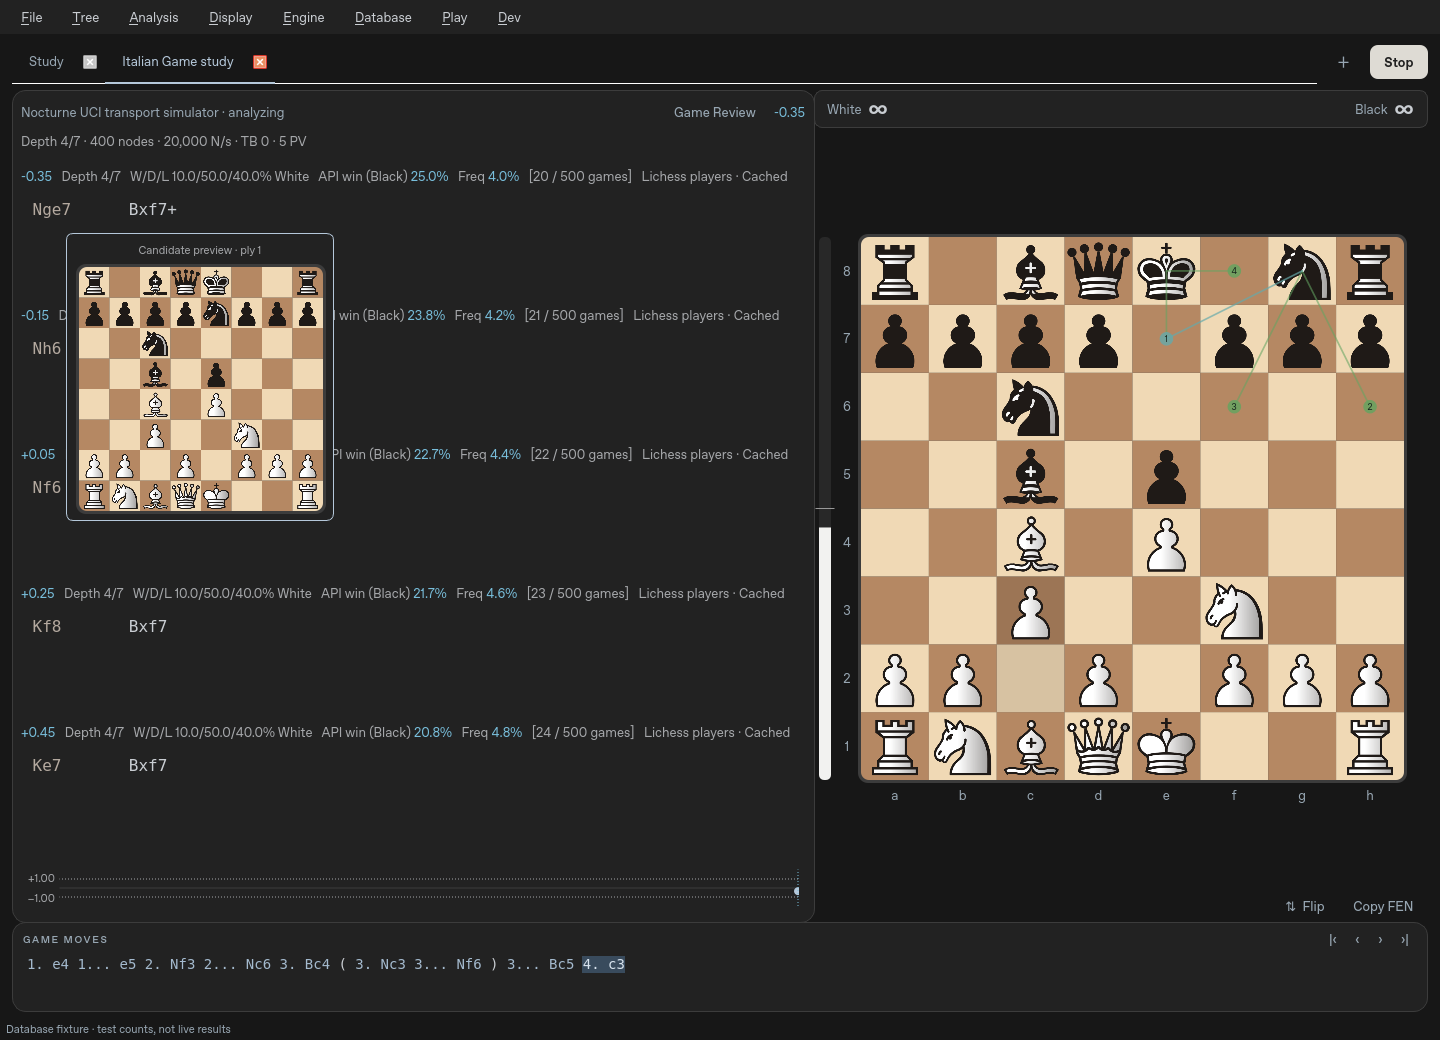
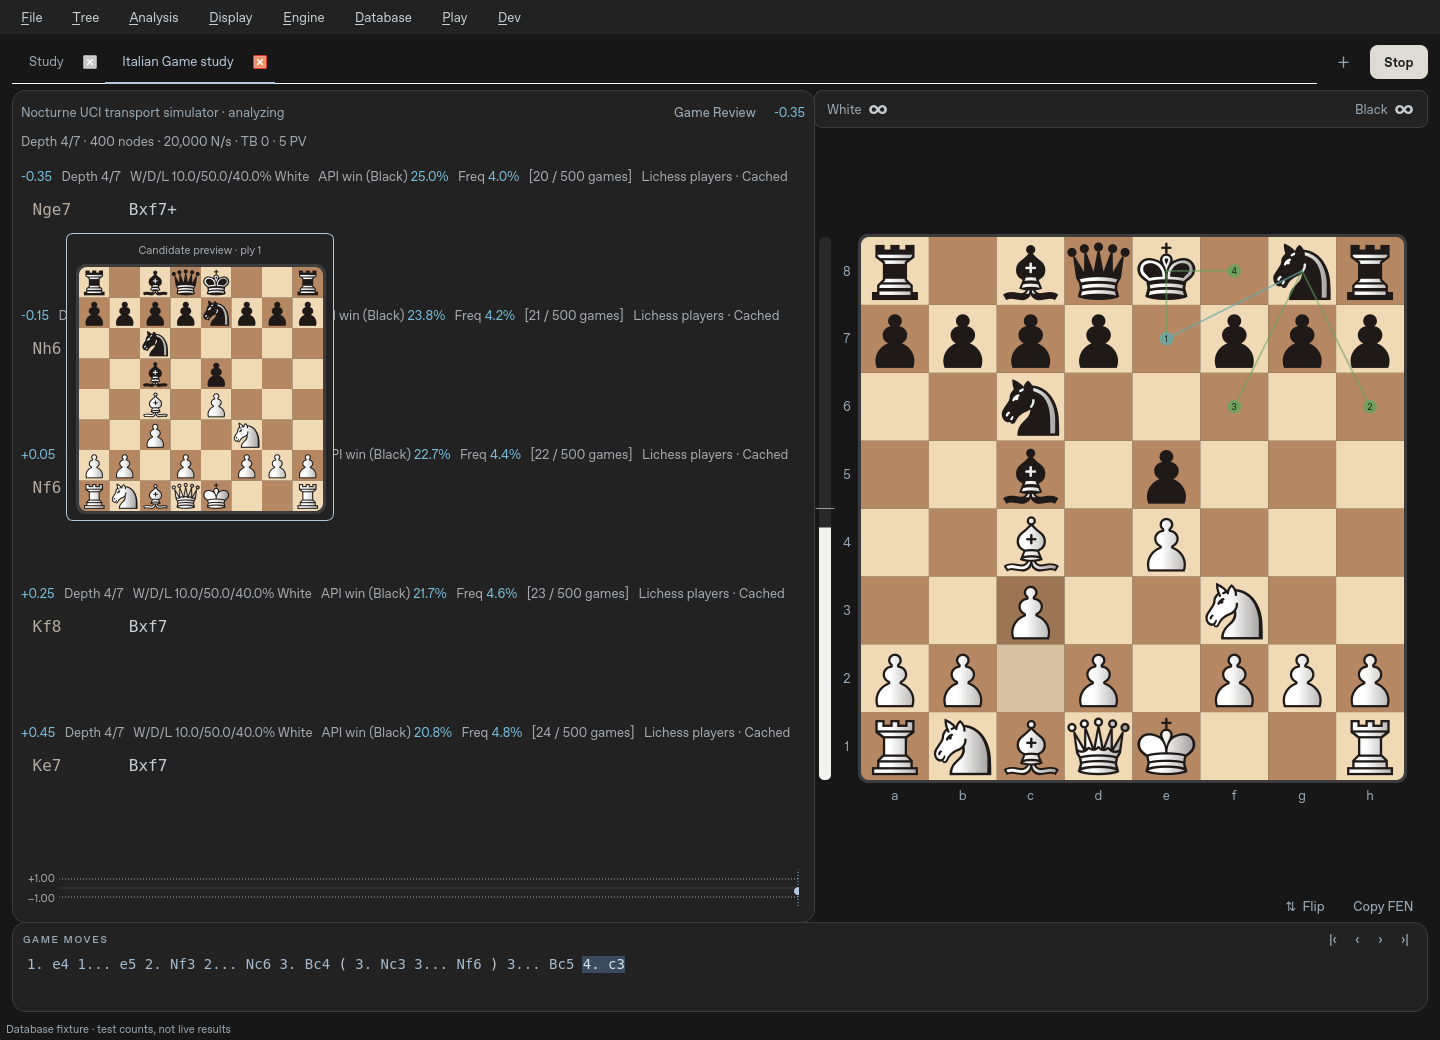
0.5.7.18: Render crisp shaded Nibbler vectors and validate the cumulative Windows build

diff --git a/tests/test_gui.py b/tests/test_gui.py
@@ -17,7 +17,7 @@ from nocturne.core.notation import san
 os.environ.setdefault("QT_QPA_PLATFORM", "offscreen")
 try:
     from PySide6.QtCore import QEvent, QPoint, QPointF, QTimer, Qt
-    from PySide6.QtGui import QMouseEvent, QTextDocument, QWheelEvent, QColor, QPixmap, QFontMetricsF
+    from PySide6.QtGui import QMouseEvent, QTextDocument, QWheelEvent, QColor, QFontMetricsF
     from PySide6.QtTest import QTest
     from PySide6.QtWidgets import QApplication, QMenu, QScrollArea, QWidget
     from nocturne.gui.window import MainWindow
@@ -197,20 +197,19 @@ class GuiTests(unittest.TestCase):
         self.assertEqual(self.window.game.time_control, TimeControl(300, 2))
         self.assertEqual(self.window.game.clock_values(), {1: 280, -1: 290})
 
-    def test_nibbler_default_has_all_twelve_original_images_and_live_style_switching(self):
+    def test_nibbler_default_has_twelve_matching_vectors_and_live_style_switching(self):
         from nocturne.gui.dialogs import SettingsDialog
         board = self.window.board_view
         self.assertEqual(self.window.config["piece_set"], "Nibbler")
         self.assertEqual(board.piece_set, "Nibbler")
         self.assertEqual(len(board._renderers), 12)
         for piece, image in board._renderers.items():
-            self.assertIsInstance(image, QPixmap)
-            self.assertFalse(image.isNull())
-            self.assertEqual((image.width(), image.height()), (240, 240))
-            self.assertTrue(image.hasAlphaChannel())
+            self.assertTrue(image.isValid())
+            self.assertFalse(image.viewBoxF().isEmpty())
             self.assertTrue(board.piece_path(piece).is_file())
-        self.assertEqual(board.piece_path(2).name, "N.png")
-        self.assertEqual(board.piece_path(-2).name, "_N.png")
+            self.assertNotIn("<image", board.piece_path(piece).read_text())
+        self.assertEqual(board.piece_path(2).name, "wN.svg")
+        self.assertEqual(board.piece_path(-2).name, "bN.svg")
         dialog = SettingsDialog(self.window.config, self.window)
         try:
             self.assertEqual(dialog.pieces.itemText(0), "Nibbler")
@@ -219,10 +218,30 @@ class GuiTests(unittest.TestCase):
             self.assertEqual(dialog.preview.piece_set, "Cburnett")
             dialog.pieces.setCurrentText("Nibbler")
             self.assertEqual(dialog.preview.piece_set, "Nibbler")
-            self.assertFalse(dialog.preview._renderers[2].isNull())
+            self.assertTrue(dialog.preview._renderers[2].isValid())
         finally:
             dialog.close()
             dialog.deleteLater()
+
+    def test_nibbler_vectors_paint_with_alpha_at_one_two_and_three_times_dpi(self):
+        from PySide6.QtCore import QRectF
+        from PySide6.QtGui import QImage, QPainter
+        board = self.window.board_view
+        for piece in board._renderers:
+            for scale in (1, 2, 3):
+                image = QImage(256 * scale, 256 * scale, QImage.Format.Format_ARGB32)
+                image.setDevicePixelRatio(scale)
+                image.fill(Qt.GlobalColor.transparent)
+                painter = QPainter(image)
+                painter.setRenderHint(QPainter.RenderHint.Antialiasing)
+                board._piece(painter, piece, QRectF(0, 0, 256, 256))
+                painter.end()
+                self.assertEqual(image.pixelColor(0, 0).alpha(), 0)
+                self.assertGreater(image.pixelColor(128 * scale, 190 * scale).alpha(), 0)
+                # Curved/slanted vector edges must retain intermediate alpha at
+                # native device resolution, rather than nearest-neighbor pixels.
+                edge = [image.pixelColor(x, 128 * scale).alpha() for x in range(image.width())]
+                self.assertTrue(any(0 < alpha < 255 for alpha in edge), (piece, scale))
 
     def test_studio_appearance_preview_cancel_and_save(self):
         from nocturne.gui.dialogs import SettingsDialog

diff --git a/src/nocturne/gui/board.py b/src/nocturne/gui/board.py
@@ -5,7 +5,7 @@ from __future__ import annotations
 import math
 
 from PySide6.QtCore import QEasingCurve, QPointF, QRectF, QSize, Qt, QVariantAnimation, Signal
-from PySide6.QtGui import QColor, QFont, QIcon, QMouseEvent, QPainter, QPainterPath, QPen, QPolygonF, QPixmap
+from PySide6.QtGui import QColor, QFont, QIcon, QMouseEvent, QPainter, QPainterPath, QPen, QPolygonF
 from PySide6.QtSvg import QSvgRenderer
 from PySide6.QtWidgets import QMenu, QWidget
 
@@ -68,14 +68,13 @@ class BoardWidget(QWidget):
 
     def piece_directory(self):
         directory = ASSETS / "pieces"
-        return directory / "nibbler" if self.piece_set == "Nibbler" else (
+        return directory / "nibbler" / "source" if self.piece_set == "Nibbler" else (
             directory / "original" if self.piece_set == "Original" else directory)
 
     def piece_path(self, piece):
         kind = PIECE_CHARS[abs(piece)]
-        if self.piece_set == "Nibbler":
-            return self.piece_directory() / (("_" if piece < 0 else "") + kind.upper() + ".png")
-        return self.piece_directory() / (("w" if piece > 0 else "b") + kind.lower() + ".svg")
+        kind = kind.upper() if self.piece_set == "Nibbler" else kind.lower()
+        return self.piece_directory() / (("w" if piece > 0 else "b") + kind + ".svg")
 
     def set_piece_set(self, name):
         name = name if name in ("Nibbler", "Cburnett", "Original") else "Nibbler"
@@ -90,7 +89,7 @@ class BoardWidget(QWidget):
         for color in (1, -1):
             for kind in range(1, 7):
                 path = str(self.piece_path(color * kind))
-                renderers[color * kind] = QPixmap(path) if name == "Nibbler" else QSvgRenderer(path, self)
+                renderers[color * kind] = QSvgRenderer(path, self)
         self._renderer_sets[name] = self._renderers = renderers
         self.update()
 
@@ -212,13 +211,10 @@ class BoardWidget(QWidget):
         self.update()
 
     def _piece(self, painter: QPainter, piece: int, rect: QRectF):
-        image = self._renderers[piece]
-        if isinstance(image, QPixmap):
-            # The upstream PNG already contains the intended transparent padding.
-            painter.drawPixmap(rect, image, QRectF(image.rect()))
-        else:
-            inset = rect.width() * 0.045
-            image.render(painter, rect.adjusted(inset, inset, -inset, -inset))
+        # The shaded Merida vectors already include the Nibbler artwork's
+        # padding. Render at the painter's device resolution, including HiDPI.
+        inset = 0 if self.piece_set == "Nibbler" else rect.width() * 0.045
+        self._renderers[piece].render(painter, rect.adjusted(inset, inset, -inset, -inset))
 
     def _arrow(self, painter: QPainter, src: int, dst: int, color: QColor, unit: float, *, subtle=False):
         if src == dst:

diff --git a/src/nocturne/__main__.py b/src/nocturne/__main__.py
@@ -38,6 +38,7 @@ def main():
             "moves": [{"uci": move.uci(), "white": 1, "draws": 0, "black": 0}],
         })
         window.config["explorer_enabled"] = True
+        window.config["explorer_statistics"] = True
         if "--smoke-engine" in sys.argv:
             index = sys.argv.index("--smoke-engine")
             executable = sys.argv[index + 1]
@@ -54,6 +55,7 @@ def main():
             ]
         window._apply_settings()
         window._refresh()
+        window._set_explorer_option("explorer_enabled", False)
         pulse = QTimer()
         pulse.setInterval(25)
         review_started = False
@@ -83,6 +85,18 @@ def main():
                     and (not review_started or reviewed["reviewed"] == reviewed["total"] == 2
                          and reviewed["accuracy"] is not None)
                 )
+                # Exercise collected vector assets and the cursor-board path
+                # in the frozen executable, not just from the source checkout.
+                valid = valid and len(window.board_view._renderers) == 12 and all(
+                    renderer.isValid() for renderer in window.board_view._renderers.values())
+                actual_fen = window.game.board.fen()
+                window._set_cursor_preview(True)
+                window._preview_history(1)
+                valid = (valid and window.hover_preview.isVisible()
+                         and window.board_view.display_board.fen() == actual_fen
+                         and window.hover_preview.board.display_board.fen() == window.game.position_at_node(1).fen())
+                window._end_preview("history")
+                valid = valid and not window.hover_preview.isVisible()
                 pulse.stop()
                 window.close()
                 app.exit(0 if valid else 2)

diff --git a/src/nocturne/settings.py b/src/nocturne/settings.py
@@ -83,10 +83,11 @@ def normalize(data) -> dict:
         result["piece_set"] = "Nibbler"
     if data.get("candidate_marker_version") != 1:
         result["candidate_style"] = "lines"
-    # The old switch controlled both lookup and display. Preserve lookup opt-in
-    # on upgrade, then store the two choices independently.
+    # A saved source from the older UI remains selected even if its panel was
+    # hidden. New installs stay offline; the new explicit opt-out is respected.
     if "explorer_statistics" not in data:
-        result["explorer_statistics"] = data.get("explorer_enabled") is True
+        result["explorer_statistics"] = (data.get("explorer_enabled") is True
+                                         or data.get("explorer_source") in choices["explorer_source"])
     for key in (
         "light",
         "coordinates",

diff --git a/tests/test_settings.py b/tests/test_settings.py
@@ -53,6 +53,7 @@ class SettingsTests(unittest.TestCase):
 
     def test_database_statistics_and_explorer_visibility_are_independent(self):
         self.assertFalse(normalize({})["explorer_statistics"])
+        self.assertTrue(normalize({"explorer_source": "masters", "explorer_enabled": False})["explorer_statistics"])
         upgraded = normalize({"explorer_enabled": True})
         self.assertTrue(upgraded["explorer_statistics"])
         upgraded["explorer_enabled"] = False

diff --git a/src/nocturne/__init__.py b/src/nocturne/__init__.py
@@ -1,3 +1,3 @@
 """Nocturne: native, offline chess analysis with user-supplied UCI engines."""
 
-__version__ = "0.5.7.17"
+__version__ = "0.5.7.18"

diff --git a/PROGRESS.md b/PROGRESS.md
@@ -2364,3 +2364,42 @@ check; cumulative native tests/build still pending. The mini board is an experim
 and the prior main-board hover remains the default. Compared all twelve Nibbler
 PNGs against the included shaded Merida vectors using Qt rendering; same style.
 Switch to those vectors next to remove the fixed bitmap resolution ceiling.
+Follow-up cached GUI checks: five passed (1.904 s), including explicit close-preview
+dismissal. Ruff and the labelled capture regeneration passed.
+
+## 2026-10-18 — 0.5.7.18: native-resolution shaded Nibbler pieces
+
+**Changed:** `gui/board.py` now renders the matching shaded Merida SVGs directly
+at device resolution, retaining the Nibbler default, silhouettes, gradients and
+padding. Board, dragging/animation, preview dialogs, promotion icons and cursor
+boards share that path. All original PNGs remain byte-for-byte archival assets.
+Updated artwork notices, rendering tests, screenshots, build/version metadata
+and documentation. Corrected an older ambiguous Cburnett-only notice.
+
+**Integration fixes:** upgrades preserve saved source selections even when the
+old explorer panel was hidden; the new explicit lookup opt-out is respected and
+fresh installations stay offline. The source/frozen launch fixture now enables
+the independent statistics flag. It additionally validates collected SVGs and
+the cursor board without changing the real board.
+
+**Executed:** focused `test_gui.py -k nibbler -v`: three passed (2.683 s), including
+all twelve vectors with transparent margins/antialiased edges at 1×, 2× and 3×.
+Full `QT_QPA_PLATFORM=offscreen .venv/bin/python -m unittest discover -s tests -v`:
+**184 run, 173 passed / 11 skipped**, 157.584 s; no failures. Six loopback HTTP
+cases skip because this execution sandbox denies sockets; Windows runs them.
+Following the migration/fixture integration updates, settings suite: seven passed;
+`.venv/bin/ruff check src tests scripts`: passed. Both individually executed
+`python -m nocturne --smoke-test` and the same command with `--smoke-engine
+/workspace/.venv/bin/python /workspace/tests/fixtures/uci_simulator.py`: exit 0.
+The latter uses a protocol fixture, not a real playing-strength measurement.
+
+`pip wheel --no-deps --no-build-isolation --wheel-dir /tmp/nocturne-wheel .`
+completed. ZIP integrity and contents verified: twelve SVGs, twelve original
+PNGs and the new hover module. All twelve PNG Git-blob checksums match the pinned
+Nibbler reference notice. Real Qt dark/light/hover captures were generated and
+visually inspected; fixture counts and simulated UCI moves are explicitly labelled.
+
+**Next/limits:** publish this cumulative build to native Windows CI, inspect
+both full runs and frozen launch gates, then provide the actual Windows download.
+User-machine DPI/multi-monitor interaction and unsigned Windows trust remain
+manual checks. No new launch scripts or security-policy bypasses were introduced.

diff --git a/README.md b/README.md
@@ -1,4 +1,4 @@
-# Nocturne Analysis · 0.5.7.17
+# Nocturne Analysis · 0.5.7.18
 
 A native, offline Windows chess analysis GUI inspired by Nibbler. You supply
 Stockfish or another UCI executable. **The desktop app has no built-in engine.**
@@ -6,10 +6,18 @@ Stockfish or another UCI executable. **The desktop app has no built-in engine.**
 The 0.5 direction replaces the earlier custom-engine product. Historical engine
 source/tests remain for reproducibility; they are excluded from the desktop bundle.
 
-![Real Qt application, using explicitly labelled simulated UCI test data](docs/compact-studio-dark.png)
+![Real Qt application with vector pieces and hidden explorer; labelled fixture data](docs/vector-studio-dark.png)
 
 *This screenshot uses the protocol test simulator, not Stockfish or measured chess
-analysis. The simulator is not bundled in the application.*
+analysis. The simulator is not bundled in the application. Database counts in this capture
+are explicitly labelled fixtures, not live results.*
+
+**0.5.7.18: sharp Nibbler-style pieces.** The default now renders the matching
+shaded Merida SVGs directly at device resolution instead of enlarging 240×240
+PNGs. The silhouettes, gradients and padding retain the requested look on the
+board, during dragging/animation, in settings, promotion icons and hover previews.
+The original PNGs and source/license notices remain included.
+[Light appearance with Grey board](docs/vector-studio-light.png).
 
 **0.5.7.17: experimental small hover board.** Enable **Dev → Preview moves on a
 small board near cursor**. History, database and MultiPV previews use a small
@@ -26,7 +34,8 @@ labelled simulator moves and fixture database counts.
 frequency continue to update in each MultiPV header, including after navigation.
 Selecting Masters, Lichess players or ChessDB enables statistics without opening
 the panel. **Enable database statistics** independently disables all lookups;
-fresh installations still start offline. Existing enabled lookups are migrated.
+fresh installations still start offline. Saved database selections are retained on upgrade even with the panel hidden.
+The separate statistics switch provides an explicit offline opt-out.
 
 ## Windows: download and open
 

diff --git a/THIRD_PARTY_NOTICES.md b/THIRD_PARTY_NOTICES.md
@@ -43,8 +43,8 @@ source access when redistributing.
 - The UCI simulator is explicitly a development/test fixture, not a playing engine.
   It is not included in the application bundle.
 
-Nibbler's 12 original PNG chess-piece assets are included as the Nibbler option,
-now the default. No Nibbler application code is copied. See the piece notice below.
+The Nibbler option is the default: matching shaded Merida vectors are rendered
+at device resolution; Nibbler's 12 original PNGs are retained as references. No Nibbler application code is copied. See the piece notice below.
 User-selected external engines retain their respective licenses; this application
 does not distribute or modify them.
 
@@ -86,7 +86,8 @@ The upstream COPYING.md exceptions table credits Colin M.L. Burnett and GPLv2+.
 Retain licenses/CBURNETT-NOTICE.txt and
 licenses/CBURNETT-GPL-2.0-or-later.txt, which accompany the native app, wheel and
 source archive. The SVGs themselves are the preferred modifiable artwork source.
-No Chess.com or Nibbler artwork is included; no Lichess endorsement is implied.
+This Cburnett set contains no Chess.com artwork; no Lichess endorsement is implied.
+The separate Nibbler/Merida artwork is credited below.
 
 
 ### Nibbler / shaded Merida chess pieces (default)
@@ -97,4 +98,6 @@ Nibbler credits Lichess for these pieces. Merida is credited by Lichess to Arman
 Hernandez Marroquin under GPL-2.0-or-later; shaded artwork also credits Felix Kling.
 See `licenses/NIBBLER-PIECES-NOTICE.txt`, `licenses/MERIDA-GPL-2.0-or-later.txt`
 and `licenses/GPL-3.0.txt`. The PNGs and upstream editable Merida SVGs are included
-in `assets/pieces/nibbler/` and the accompanying source archive. No endorsement.
+in `assets/pieces/nibbler/` and the accompanying source archive. Since 0.5.7.18,
+the matching SVGs in `source/` provide runtime rendering at native display
+resolution; original 240×240 PNGs remain archival references. No endorsement.

diff --git a/TODO.md b/TODO.md
@@ -1,8 +1,10 @@
 # Active roadmap
 
-**In progress: 0.5.7.16–18.** Independent database visibility/statistics implemented;
-experimental cursor hover board and sharp Nibbler rendering next, then cumulative
-Windows validation and download. Prior delivery below remains available.
+**In progress: 0.5.7.18 cumulative validation.** All three changes are implemented:
+independent database visibility/statistics, default-off Dev cursor hover board,
+and native-resolution shaded Merida vectors. Focused/GUI tests and source launch
+checks passed; full/native verification and final download are pending. Prior
+delivery below remains available.
 
 **Current: 0.5.7.15 delivered.** All requested pieces, color/metadata, 10% square
 shading, compressed graph guides and compact spacing are included. Two native
@@ -27,7 +29,7 @@ in 0.5.7.15. Tighter spacing followed in its own labelled 0.5.7.14 commit.
 styles, preview/promotion integration and a one-time default migration. Focused
 GUI/settings/local checks passed; native timing failures were fixed and
 the cumulative 0.5.7.15 validation passed. Original PNGs
-are 240×240; unusually large high-DPI boards can exceed native image resolution.
+were 240×240; 0.5.7.18 replaces runtime bitmap scaling with the matching vectors.
 
 0.5.7.11 adds blue evaluation/API/frequency values in neutral-depth PV headers,
 validated position/move-specific database joins and 10% palette-relative last-

diff --git a/docs/BUILDING.md b/docs/BUILDING.md
@@ -1,4 +1,16 @@
-# Windows 11 desktop builds · 0.5.7.15
+# Windows 11 desktop builds · 0.5.7.18
+
+The new cumulative source includes independent database statistics/display
+controls, the Dev cursor-board experiment and Nibbler-style vector rendering.
+Intermediate labelled source commits 0.5.7.16 and 0.5.7.17 intentionally skipped
+CI; one cumulative 0.5.7.18 Windows build follows local validation.
+
+Frozen launch checks now verify all twelve collected SVG renderers, hidden-table
+cached statistics and cursor previews that leave the main board unchanged, plus
+external-UCI/Game Review completion. No script launcher or security-policy change
+is introduced. Native build receipt and download will be recorded when complete.
+
+## Previous verified download · 0.5.7.15
 
 [Download Windows 0.5.7.15](https://github.com/understandingothers789-pixel/nocturne-chess/actions/runs/39107769865/artifacts/12129033459). Extract All and open **Nocturne/Nocturne.exe**.
 Includes exact Nibbler PNGs, blue evaluation/API metrics, 10% palette-relative

diff --git a/CHANGELOG.md b/CHANGELOG.md
@@ -1,5 +1,12 @@
 # Changelog
 
+## 0.5.7.18 — Crisp Nibbler-style vector rendering
+
+- Render the matching shaded Merida SVGs at native device resolution, retaining the Nibbler look and default preference.
+- Use vectors consistently for board, dragging, animation, settings, promotion and cursor previews.
+- Preserve all original PNG bytes as licensed archival references; update artwork notices.
+- Cover transparent rendering and antialiased edges at 1×, 2× and 3× device pixel ratios.
+
 ## 0.5.7.17 — Experimental cursor hover board
 
 - Add an opt-in, remembered Dev setting to preview on a small mouse-transparent board near the pointer.
